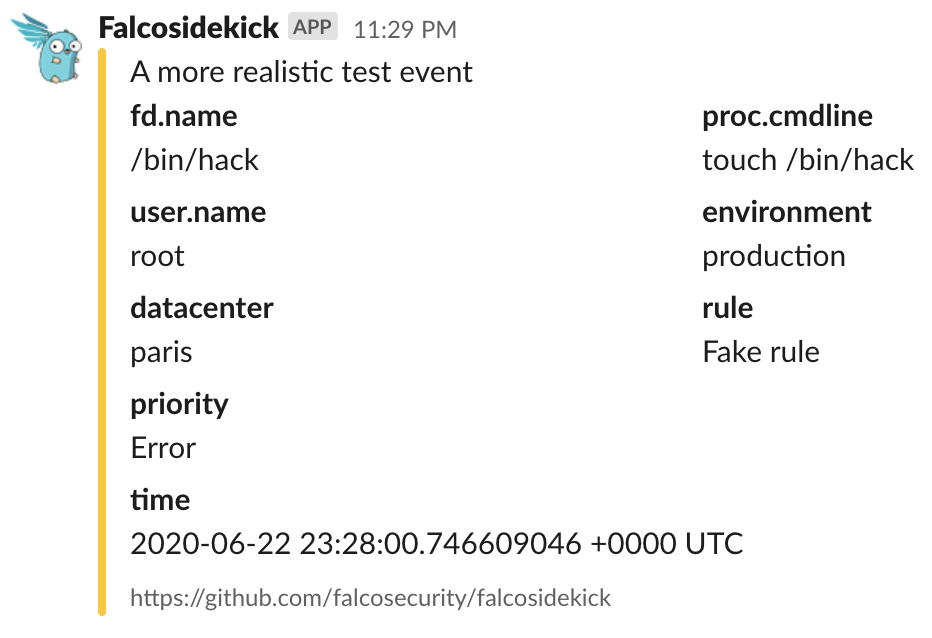
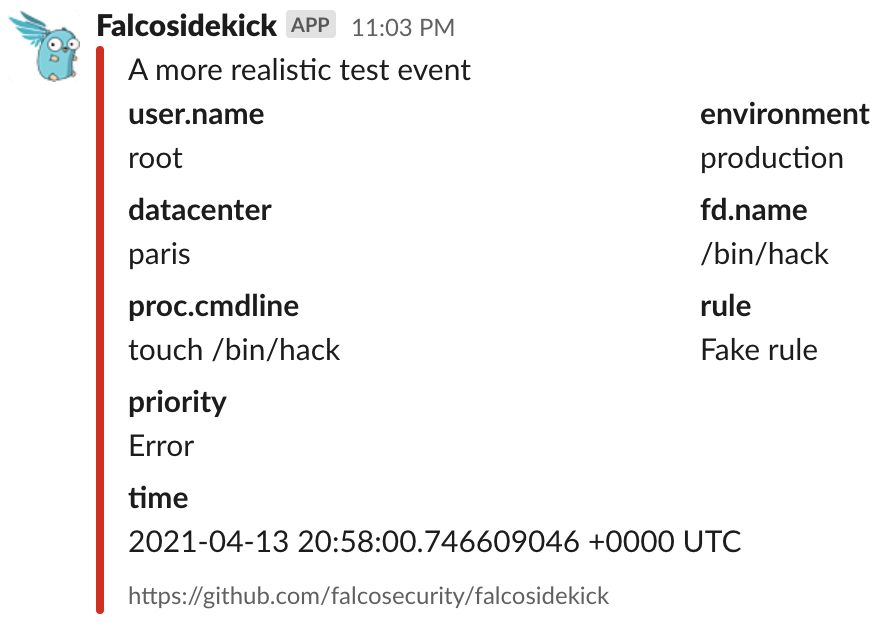
update blog post extend falco with falcosidekick

diff --git a/content/en/blog/extend-falco-outputs-with-falcosidekick.md b/content/en/blog/extend-falco-outputs-with-falcosidekick.md
@@ -4,65 +4,103 @@ Date: 2020-06-22
 Author: Thomas Labarussias
 slug: extend-falco-outputs-with-falcosidekick
 ---
-By default, Falco has 5 outputs for its events: **stdout**, **file**, **gRPC**, **shell** and **http**. As you see in the following diagram:
+*(2021-04-13) edit: update to integrate `Falcosidekick-UI` use last versions of `Falco` helm chart which embeds `Falcosidekick` as dependency*
+
+By default, Falco has 5 outputs for its events: **stdout**, **file**, **gRPC**, **shell** and **http**. As you can see in the following diagram:
 
 ![falco extendend architecture](/img/falco-extended-architecture.png)
 
-Even if they're convenient, we can quickly be limited to integrating Falco with other components. Here comes [`falcosidekick`](https://github.com/falcosecurity/falcosidekick), a little daemon that extends that number of possible outputs. 
+Even if they're convenient, we can quickly be limited to integrating Falco with other components. Here comes [`Falcosidekick`](https://github.com/falcosecurity/falcosidekick), a little daemon that extends that number of possible outputs. 
 
-The current list of available `falcosidekick` outputs (version `2.13.0`) is: 
-* [**Slack**](https://slack.com)
-* [**Rocketchat**](https://rocket.chat/)
-* [**Mattermost**](https://mattermost.com/)
-* [**Teams**](https://products.office.com/en-us/microsoft-teams/group-chat-software)
-* [**Datadog**](https://www.datadoghq.com/)
-* [**AlertManager**](https://prometheus.io/docs/alerting/alertmanager/)
-* [**Elasticsearch**](https://www.elastic.co/)
-* [**Loki**](https://grafana.com/oss/loki)
-* [**NATS**](https://nats.io/)
-* [**Influxdb**](https://www.influxdata.com/products/influxdb-overview/)
-* [**AWS Lambda**](https://aws.amazon.com/lambda/features/)
-* [**AWS SQS**](https://aws.amazon.com/sqs/features/)
-* **SMTP** (email)
-* [**Opsgenie**](https://www.opsgenie.com/)
-* **Webhook**
+The current list of available `Falcosidekick` outputs (version [`v2.22.0`](https://github.com/falcosecurity/falcosidekick/releases/tag/2.22.0)) is: 
 
-Beyond that, it provides metrics about the number of events and let you add custom fields in events, for example *environment*, *region*, etc
+- [**Slack**](https://slack.com)
+- [**Rocketchat**](https://rocket.chat/)
+- [**Mattermost**](https://mattermost.com/)
+- [**Teams**](https://products.office.com/en-us/microsoft-teams/group-chat-software)
+- [**Datadog**](https://www.datadoghq.com/)
+- [**Discord**](https://www.discord.com/)
+- [**AlertManager**](https://prometheus.io/docs/alerting/alertmanager/)
+- [**Elasticsearch**](https://www.elastic.co/)
+- [**Loki**](https://grafana.com/oss/loki)
+- [**NATS**](https://nats.io/)
+- [**STAN (NATS Streaming)**](https://docs.nats.io/nats-streaming-concepts/intro)
+- [**Influxdb**](https://www.influxdata.com/products/influxdb-overview/)
+- [**AWS Lambda**](https://aws.amazon.com/lambda/features/)
+- [**AWS SQS**](https://aws.amazon.com/sqs/features/)
+- [**AWS SNS**](https://aws.amazon.com/sns/features/)
+- [**AWS CloudWatchLogs**](https://aws.amazon.com/cloudwatch/features/)
+- [**AWS S3**](https://aws.amazon.com/s3/features/)
+- **SMTP** (email)
+- [**Opsgenie**](https://www.opsgenie.com/)
+- [**StatsD**](https://github.com/statsd/statsd) (for monitoring of
+  `falcosidekick`)
+- [**DogStatsD**](https://docs.datadoghq.com/developers/dogstatsd/?tab=go) (for
+  monitoring of `falcosidekick`)
+- **Webhook**
+- [**Azure Event Hubs**](https://azure.microsoft.com/en-in/services/event-hubs/)
+- [**Prometheus**](https://prometheus.io/) (for both events and monitoring of
+  `falcosidekick`)
+- [**GCP PubSub**](https://cloud.google.com/pubsub)
+- [**GCP Storage**](https://cloud.google.com/storage)
+- [**Google Chat**](https://workspace.google.com/products/chat/)
+- [**Apache Kafka**](https://kafka.apache.org/)
+- [**PagerDuty**](https://pagerduty.com/)
+- [**Kubeless**](https://kubeless.io/)
+- [**OpenFaaS**](https://www.openfaas.com)
+- [**WebUI**](https://github.com/falcosecurity/falcosidekick-ui) (a Web UI for displaying latest events in real time)
 
-In this article, we'll see how to integrate it in a Kubernetes aside `Falco` with `Helm` (*version 3*). 
-For installing `Falco` with `Helm` see the [community chart](https://github.com/falcosecurity/charts):
+Beyond that, it provides metrics about the number of events and let you add `custom fields` in events, for example *environment*, *region*, etc
+
+In this article, we'll see how to deploy together in a Kubernetes cluster [`Falco`](https://github.com/falcosecurity/falco), [`Falcosidekick`](https://github.com/falcosecurity/falcosidekick) and [`Falcosidekick-UI`](https://github.com/falcosecurity/falcosidekick-ui). 
+
+We'll use `Helm` (*version 3*) for installing all components and for a better user experience, the official `Falco` [chart](https://github.com/falcosecurity/charts/tree/master/falco) is able to install and set all configurations for us:
+
+For this tutorial, we'll send the events in a **Slack** channel, so [get your webhook URL](https://api.slack.com/messaging/webhooks#create_a_webhook) first.
+
+Run the following `Helm` 
 
 ```bash
-kubectl -n falco get pods
-
-NAME          READY   STATUS    RESTARTS   AGE
-falco-562mb   1/1     Running   0          3m10s
-falco-pvl27   1/1     Running   0          3m10s
-falco-d4mgr   1/1     Running   0          3m10s
-```
-
-We'll send the events in a **Slack** channel for this tutorial, so [get your webhook URL]([https://](https://api.slack.com/messaging/webhooks#create_a_webhook) first.
-
-Install `falcosidekick` with `helm`:
-
-```bash
+kubectl create namespace falco
 helm repo add falcosecurity https://falcosecurity.github.io/charts
-helm install falcosidekick falcosecurity/falcosidekick --namespace falco --set config.slack.webhookurl="https://hooks.slack.com/services/XXXX"
+helm install falco falcosecurity/falco \
+--set falcosidekick.enabled=true \
+--set falcosidekick.webui.enabled=true \
+--set falcosidekick.config.slack.webhookurl="https://hooks.slack.com/services/XXXX" \
+-n falco 
 ```
+
+- `--set falcosidekick.enabled=true` enables deployment of `Falcosidekick` aside `Falco` and configures `Falco` for sending its events to `Falcosidekick`
+- `--set falcosidekick.webui.enabled=true` enables deployment of `Falcosidekick-UI` and configure `Falcosidekick` for using it as output
+- `--set falcosidekick.config.slack.webhookurl="https://hooks.slack.com/services/XXXX"` enables `Slack` as output for `Falcosidekick`
+
+All possible values can be seen in the according `Helm` charts, see the [repository](https://github.com/falcosecurity/charts)
+
+After few seconds you should get:
+
 ```bash
 kubectl -n falco get pods
 
-NAME                            READY   STATUS    RESTARTS   AGE
-falco-562mb                     1/1     Running   0          65m
-falco-pvl27                     1/1     Running   0          65m
-falco-d4mgr                     1/1     Running   0          65m
-falcosidekick-dddffd6bf-r6bwq   1/1     Running   0          42s
+NAME                                      READY   STATUS    RESTARTS   AGE
+falco-falcosidekick-ui-7bdc54fb4c-h99b6   1/1     Running   0          26s
+falco-falcosidekick-7779579477-pfspz      1/1     Running   0          26s
+falco-falcosidekick-7779579477-bn8pv      1/1     Running   0          26s
+falco-6ksbx                               1/1     Running   0          26s
+falco-pxvbk                               1/1     Running   0          26s
+falco-5cg5b                               1/1     Running   0          26s
+```
+```bash
+kubectl -n falco get svc
+
+NAME                     TYPE        CLUSTER-IP      EXTERNAL-IP   PORT(S)    AGE
+falco-falcosidekick      ClusterIP   10.43.212.119   <none>        2801/TCP   61s
+falco-falcosidekick-ui   ClusterIP   10.43.35.87     <none>        2802/TCP   60s
 ```
 
-You can now test it with a typical port-forwarding:
+You can test the deployment of `Falcosidekick` with a typical port forward:
 
 ```bash
-kubectl port-forward svc/falcosidekick -n falco 2801:2801
+kubectl -n falco port-forward svc/falco-falcosidekick 2801
 ```
 
 ```bash
@@ -73,63 +111,73 @@ pong
 
 It's alive !
 
-Now, we send an event to **Slack** to test whether it works or not:
+We can send a test event to **Slack** to test whether it works or not. `Falcosidekick` provides a useful endpoint for that:
 
 ```bash
-curl -sI http://localhost:2801/test
+curl -sI -XPOST http://localhost:2801/test
 
 HTTP/1.1 200 OK
-Date: Mon, 22 Jun 2020 21:13:48 GMT
+Date: Tue, 13 Apr 2021 20:42:32 GMT
+Content-Length: 0
 ```
 
 In logs you'll get:
 
 ```bash
-kubectl logs deployment/falcosidekick -n falco
+kubectl -n falco logs deployment/falcosidekick
 
-2020/06/22 21:12:56 [INFO]  : Enabled Outputs : Slack
-2020/06/22 21:12:56 [INFO]  : Falco Sidekick is up and listening on port 2801
-2020/06/22 21:13:34 [DEBUG] : Test sent
+kubectl logs deployment/falco-falcosidekick -n falco
+Found 2 pods, using pod/falco-falcosidekick-7779579477-pfspz
+2021/04/13 20:40:11 [INFO]  : Enabled Outputs : [Slack WebUI]
+2021/04/13 20:40:11 [INFO]  : Falco Sidekick is up and listening on :2801
+2021/04/13 20:41:35 [INFO]  : WebUI - Post OK (200)
+2021/04/13 20:41:35 [INFO]  : WebUI - Publish OK
+2021/04/13 20:41:35 [INFO]  : Slack - Post OK (200)
+2021/04/13 20:41:35 [INFO]  : Slack - Publish OK
 ```
-And in **Slack**:
+
+We can notice the fist line of logs `[INFO]  : Enabled Outputs : [Slack WebUI]`, we do have 2 enabled outputs, `Slack` and `WebUI` ([`Falcosidekick-UI`](https://github.com/falcosecurity/falcosidekick-ui))
+
+And in your **Slack** channel:
 
 ![falcosidekick slack test](/img/falcosidekick-slack-test.png)
 
-For **Slack** and some other ouputs, the message format can be customized, more informations in [README](https://github.com/falcosecurity/falcosidekick/blob/master/README.md).
+*Tip: For **Slack** and some other ouputs, the message format can be customized, more informations in [README](https://github.com/falcosecurity/falcosidekick/blob/master/README.md)*
 
 We'll now add some custom fields and test a more realistic event.
 
-Edit the *values.yaml* like this :
+Upgrade your deployment:
+
 ```bash
-  customfields: "environment:production,datacenter:paris"
+helm upgrade falco falcosecurity/falco \
+--set falcosidekick.enabled=true \
+--set falcosidekick.webui.enabled=true \
+--set falcosidekick.config.slack.webhookurl="https://hooks.slack.com/services/XXXX" \
+--set falcosidekick.config.customfields="environment:production\,datacenter:paris"
+-n falco 
 ```
 
-Send an event to `falcosidekick` :
+Send a more advanced test event to `Falcosidekick` (still with the port forward aside):
 ```bash
-curl "http://localhost:2801/" -d'{"output":"A more realistic test event","priority":"Error","rule":"Fake rule","time":"2020-06-22T23:28:00.746609046Z", "output_fields": {"evt.time":1507591916746609046,"fd.name":"/bin/hack","proc.cmdline":"touch /bin/hack","user.name":"root"}}'
+curl "http://localhost:2801/" -d'{"output":"A more realistic test event","priority":"Error","rule":"Fake rule","time":"2021-04-13T20:58:00.746609046Z+2", "output_fields": {"evt.time":1618347519000000,"fd.name":"/bin/hack","proc.cmdline":"touch /bin/hack","user.name":"root"}}'
 ```
 ![falcosidekick slack test 2](/img/falcosidekick-slack-test2.png)
 
-Last but not least, it's time to use `falcosidekick` as output processor for our beloved `Falco`.
+`Falco` community also provides a Web UI for following live events an get statistics about last. (*Tip: you can add filters by clicking on any label*)
 
-In the chart helm folder `falco`, edit *values.yaml*:
-```bash
-jsonOutput: true
-jsonIncludeOutputProperty: true
-httpOutput:
-  enabled: true
-  url: "http://falcosidekick:2801/"
-```
-```bash
-helm upgrade falco . --namespace falco
+By default, you can access to it through a port forward too:
 
-Release "falco" has been upgraded. Happy Helming!
+```bash
+kubectl port-forward svc/falco-falcosidekick-ui -n falco 2802
 ```
+
+You now have access in your browser with the URL: [http://localhost:2802/ui](http://localhost:2802/ui)
+
+![falcosidekick slack test 2](/img/falcosidekick-ui-1.png)
+
+![falcosidekick slack test 2](/img/falcosidekick-ui-2.png)
 
 And that's it!
-
-![falcosidekick slack test 3](/img/falcosidekick-slack-test2.png)
-
 
 ![falco extendend architecture](/img/falcosidekick-color.png)
 
